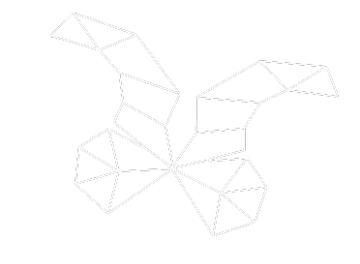
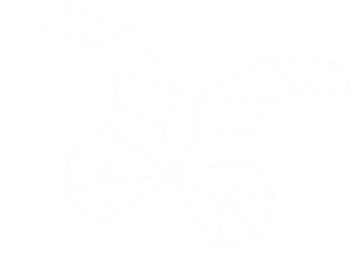
style: Adding spaces and adjusting grid

diff --git a/src/app/screens/home/home.component.html b/src/app/screens/home/home.component.html
@@ -1,38 +1,37 @@
-<h1 role="heading" class="display-6 text-primary fw-bold text-center">Hi! I'm Vanessa Isabela Denny</h1>
-<section>
-  <div class="container text-center">
+<div class="py-3 py-md-5">
+  <h1 role="heading" class="display-6 text-primary fw-bold text-center pt-md-5 pt-3">Hi! I'm Vanessa Isabela Denny
+  </h1>
+</div>
+<section class="my-md-5 my-3 pb-md-5 pb-3">
+  <div class="container-md text-center">
     <div class="row">
-      <div class="col">
-        <picture>
-          <source srcset="/assets/img/butterfly_360.png,
-                          /assets/img/butterfly_480.png 2x,
-                          /assets/img/butterfly_720.png 3x" media="(max-width: 360px)">
-          <source srcset="/assets/img/butterfly_480.png,
-                          /assets/img/butterfly_960.png 2x,
-                          /assets/img/butterfly_1440.png 3x" media="(max-width: 480px)">
-          <source srcset="/assets/img/butterfly_720.png,
-                          /assets/img/butterfly_1440.png 2x,
-                          /assets/img/butterfly_2160.png 3x" media="(max-width: 720px)">
-          <img srcset="/assets/img/butterfly.svg" alt="Butterfly graphic">
-        </picture>
-        <picture>
-          <source srcset="/assets/img/triangle_360.png,
+      <div class="col d-flex">
+        <div class="position-absolute">
+          <picture class="triangle-home">
+            <source srcset="/assets/img/triangle_278.png,
+                          /assets/img/triangle_360.png 2x" media="(max-width: 480px)">
+            <source srcset="/assets/img/triangle_360.png,
                           /assets/img/triangle_480.png 2x,
-                          /assets/img/triangle_720.png 3x" media="(max-width: 360px)">
-          <source srcset="/assets/img/triangle_480.png,
-                          /assets/img/triangle_960.png 2x,
-                          /assets/img/triangle_1440.png 3x" media="(max-width: 480px)">
-          <source srcset="/assets/img/triangle_580.png,
-                          /assets/img/triangle_7200.png 2x,
-                          /assets/img/triangle_1440.png 3x" media="(max-width: 720px)">
-          <img src="/assets/img/triangle.png" srcset="/assets/img/triangle.svg" alt="Triangle graphic">
-        </picture>
+                          /assets/img/triangle_720.png 3x" media="(max-width: 780px)">
+            <img src="/assets/img/triangle.png" srcset="/assets/img/triangle.svg" alt="Triangle graphic">
+          </picture>
+        </div>
+        <div class="position-absolute">
+          <picture class="butterfly-home">
+            <source srcset="/assets/img/butterfly_278.png,
+                          /assets/img/butterfly_360.png 2x" media="(max-width: 480px)">
+            <source srcset="/assets/img/butterfly_360.png,
+                          /assets/img/butterfly_480.png 2x,
+                          /assets/img/butterfly_720.png 3x" media="(max-width: 780px)">
+            <img src="/assets/img/butterfly.png" srcset="/assets/img/butterfly.svg" alt="Butterfly graphic">
+          </picture>
+        </div>
       </div>
-      <div class="col">
+      <div class="col-md-6 col-sm-8">
         <h2 role="heading" class="text-secondary fw-semibold">What drives my work ethic is building products that are
           user
           centered</h2>
-        <p class="fs-4">
+        <p class="fs-4 py-md-3">
           Graduated in Business Management, Systems Analysis and Development, and currently studying Interactive Media
           Design
           at Algonquin College. My guides me towards creating solutions for user
@@ -45,12 +44,12 @@
     </div>
   </div>
 </section>
-<section class="bg-white">
-  <div class="container text-center col-8">
-    <div class="row">
-      <div class="col">
+<section class="bg-white py-md-5 py-4">
+  <div class="container-md text-center col-md-8">
+    <div class="row pb-md-4 pb-1">
+      <div class="col-md col-sm">
         <h2 role="heading" class="text-secondary fw-semibold">UX UI Design</h2>
-        <p class="fs-4">
+        <p class="fs-4 pt-md-3 pt-1">
           It involves understanding users' needs and behaviors, creating user personas, mapping user journeys, and
           designing
           interactions that are responsive and intuitive.
@@ -61,7 +60,7 @@
       </div>
       <div class="col">
         <h2 role="heading" class="text-secondary fw-semibold">Front End Development</h2>
-        <p class="fs-4">
+        <p class="fs-4 pt-md-3 pt-1">
           Implementing responsive designs that work across different devices and screen sizes, implementing layout,
           style,
           functionality, animations and interactive elements that enhance the user experience, and ensuring that the
@@ -73,24 +72,21 @@
       aria-label="Go to my portfolio page">My portfolio ></button>
   </div>
 </section>
-<section>
-  <div class="container col-6 d-flex flex-column align-items-center">
+<section class="py-md-5 py-3">
+  <div class="container-md col-md-6 d-flex flex-column justify-content-around align-items-center my-md-5">
     <div class="position-absolute">
-      <picture>
+      <picture class="mountains-home">
         <source srcset="/assets/img/mountains_278.png,
                         /assets/img/mountains_360.png 2x" media="(max-width: 360px)">
-        <source srcset="/assets/img/mountains_480.png,
-                        /assets/img/mountains_960.png 2x,
-                        /assets/img/mountains_1440.png 3x" media="(max-width: 580px)">
-        <source srcset="/assets/img/mountains_580.png,
-                        /assets/img/mountains_720.png 2x,
-                        /assets/img/mountains_1440.png 3x" media="(max-width: 720px)">
+        <source srcset="/assets/img/mountains_360.png,
+                        /assets/img/mountains_480.png 2x,
+                        /assets/img/mountains_960.png 3x" media="(max-width: 780px)">
         <img src="/assets/img/mountains.png" srcset="/assets/img/mountains.svg" alt="Mountains graphic">
       </picture>
     </div>
     <div class="position-relative text-center">
       <h2 role="heading" class="text-secondary fw-semibold">Get in Touch</h2>
-      <p class="fs-4">
+      <p class="fs-4 py-md-3 py-1">
         Feel free to write a message with suggestions, questions and invitations.
         Find me elsewhere to explore my programming and design portfolios, and my
         professional social media. <br>

diff --git a/src/app/screens/contact/contact.component.html b/src/app/screens/contact/contact.component.html
@@ -1,13 +1,15 @@
-<h1 role="heading" class="display-6 text-primary fw-bold text-center">Contact Me</h1>
-<section>
+<div class="bg-white py-3 py-md-5">
+  <h1 role="heading" class="display-6 text-primary fw-bold text-center py-md-5 py-3">Contact Me</h1>
+</div>
+<section class="my-md-5 my-3 pb-md-2 pb-1">
   <h2 role="heading" class="text-secondary fw-semibold text-center">Send an Email</h2>
-  <p class="fs-4 text-center">
+  <p class="fs-4 pt-md-3 pt-1 text-center">
     Use the form below to send me an email.
     <br>
     Feel free to write a message with suggestions, questions and invitations.
   </p>
-  <div class="container col-12">
-    <form class="fs-5 bg-white row g-3">
+  <div class="container-md bg-white shadow col-12 mt-md-5 mt-4">
+    <form class="row fs-5 g-3 p-md-3 pb-3">
       <div class="col-md-6">
         <label for="inputName" class="form-label">Full Name*</label>
         <input type="text" class="form-control" id="inputName" placeholder="">
@@ -30,33 +32,35 @@
     </form>
   </div>
 </section>
-<hr>
-<section>
-  <div>
-    <picture>
-      <source srcset="/assets/img/mountains_278.png,
-                      /assets/img/mountains_360.png 2x" media="(max-width: 480px)">
-      <source srcset="/assets/img/mountains_480.png,
-                      /assets/img/mountains_960.png 2x,
-                      /assets/img/mountains_1440.png 3x" media="(max-width: 720px)">
-      <img src="/assets/img/mountains.png" srcset="/assets/img/mountains.svg" alt="Mountains graphic">
-    </picture>
-  </div>
-  <div class="container text-center">
-    <h2 role="heading" class="text-secondary fw-semibold">My Links</h2>
-    <p class="fs-4">
-      Find me elsewhere in the links below to explore my programming and design portfolios, and my professional social
-      media.
-      <br>
-      Stay connected and follow my projects and professional news.
-    </p>
-    <div>
-      <a role="button" class="icon-link" target="blank" href="https://www.github.com/vanessaidenny/"
-        aria-label="Go to Github portfolio"><i class="bi bi-github" aria-hidden="true"></i></a>
-      <a role="button" class="icon-link" target="blank" href="https://www.linkedin.com/in/vanessaidenny"
-        aria-label="Go to Linkedin portfolio"><i class="bi bi-linkedin" aria-hidden="true"></i></a>
-      <a role="button" class="icon-link" target="blank" href="https://www.codepen.io/vanessaidenny"
-        aria-label="Go to Codepen portfolio"><i class="fa fa-brands fa-codepen"></i></a>
+<hr class="col-md-8">
+<section class="py-md-5 py-3 pb-md-5 pb-2">
+  <div class="container-md d-flex justify-content-end">
+    <div class="position-relative text-center">
+      <h2 role="heading" class="text-secondary fw-semibold">My Links</h2>
+      <p class="fs-4 py-md-3 py-1">
+        Find me elsewhere in the links below to explore my programming and design portfolios, and my professional social
+        media.
+        <br>
+        Stay connected and follow my projects and professional news.
+      </p>
+      <div>
+        <a role="button" class="icon-link" target="blank" href="https://www.github.com/vanessaidenny/"
+          aria-label="Go to Github portfolio"><i class="bi bi-github" aria-hidden="true"></i></a>
+        <a role="button" class="icon-link" target="blank" href="https://www.linkedin.com/in/vanessaidenny"
+          aria-label="Go to Linkedin portfolio"><i class="bi bi-linkedin" aria-hidden="true"></i></a>
+        <a role="button" class="icon-link" target="blank" href="https://www.codepen.io/vanessaidenny"
+          aria-label="Go to Codepen portfolio"><i class="fa fa-brands fa-codepen"></i></a>
+      </div>
+    </div>
+    <div class="position-absolute">
+      <picture class="mountains-home">
+        <source srcset="/assets/img/mountains_278.png,
+                        /assets/img/mountains_360.png 2x" media="(max-width: 360px)">
+        <source srcset="/assets/img/mountains_360.png,
+                        /assets/img/mountains_480.png 2x,
+                        /assets/img/mountains_960.png 3x" media="(max-width: 780px)">
+        <img src="/assets/img/mountains_360.png" alt="Mountains graphic">
+      </picture>
     </div>
   </div>
 </section>

diff --git a/src/app/screens/about/about.component.html b/src/app/screens/about/about.component.html
@@ -1,18 +1,17 @@
-<h1 role="heading" class="display-6 text-primary fw-bold text-center">About Me</h1>
-<section>
-  <div class="container text-center">
+<div class="bg-white py-3 py-md-5">
+  <h1 role="heading" class="display-6 text-primary fw-bold text-center py-md-5 py-3">About Me</h1>
+</div>
+<section class="my-md-5 my-3 pb-md-5 pb-3">
+  <div class="container-md text-center">
     <div class="row">
-      <div class="col">
+      <div class="col-md">
         <picture>
           <source srcset="/assets/img/my-picture_360.png,
                           /assets/img/my-picture_480.png 2x,
-                          /assets/img/my-picture_720.png 3x" media="(max-width: 360px)">
+                          /assets/img/my-picture_720.png 3x" media="(max-width: 460px)">
           <source srcset="/assets/img/my-picture_480.png,
                           /assets/img/my-picture_960.png 2x,
-                          /assets/img/my-picture_1440.png 3x" media="(max-width: 480px)">
-          <source srcset="/assets/img/my-picture_580.png,
-                          /assets/img/my-picture_720.png,
-                          /assets/img/my-picture_1440.png 2x" media="(max-width: 720px)">
+                          /assets/img/my-picture_1440.png 3x" media="(max-width: 780px)">
           <img src="/assets/img/my-picture.png" alt="Vanessa Isabela Denny's picture">
         </picture>
       </div>

diff --git a/src/app/screens/portfolio/portfolio.component.html b/src/app/screens/portfolio/portfolio.component.html
@@ -1,7 +1,9 @@
-<h1 role="heading" class="display-6 text-primary fw-bold text-center">My Portfolio</h1>
+<div class="bg-white py-3 py-md-5">
+  <h1 role="heading" class="display-6 text-primary fw-bold text-center py-md-5 py-3">My Portfolio</h1>
+</div>
 <section>
   <h2 role="heading" class="text-secondary fw-semibold text-center">Skills</h2>
-  <div class="container text-center">
+  <div class="container-md text-center">
     <div class="row">
       <div class="col">
         <h3 role="heading" class="text-black fw-semibold">UX UI Design</h3>

diff --git a/src/app/footer/footer.component.html b/src/app/footer/footer.component.html
@@ -1,5 +1,5 @@
 <footer role="contentinfo">
-  <div class="container text-center bg-secondary text-white">
+  <div class="container-md text-center bg-secondary text-white">
     <h5 role="heading">Vanessa Isabela Denny</h5>
     <p class="fs-6 copyright">&copy; Copyright</p>
     <button type="button" class="btn btn-link text-white" (click)="gotoTop()"

diff --git a/src/styles.css b/src/styles.css
@@ -9,6 +9,11 @@ body {
   min-height: 100vh;
 }
 
+button {
+  border-radius: 30px !important;
+  padding: 5px 25px !important;
+}
+
 
 /* HEADER */
 

diff --git a/src/app/screens/contact/contact.component.css b/src/app/screens/contact/contact.component.css
@@ -1,0 +1,3 @@
+hr {
+  margin: 0 auto;
+}
